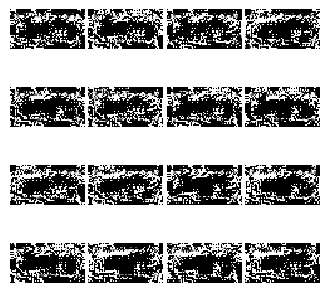
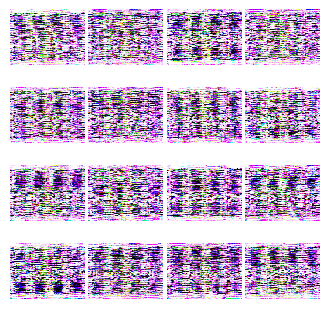
first commit

diff --git a/utils/datas.py b/utils/datas.py
@@ -7,7 +7,7 @@ import matplotlib as mpl
 mpl.use('Agg')
 import matplotlib.pyplot as plt
 import matplotlib.gridspec as gridspec
-import cv2 as cv
+#import cv2 as cv
 from tensorflow.examples.tutorials.mnist import input_data
 
 prefix = './Datas/'
@@ -111,25 +111,32 @@ class celebA():
 
 class mnist():
 	def __init__(self, flag='conv', is_tanh = False):
-		self.datapath = prefix + 'bus_data/'
+		self.datapath = prefix + 'data_pic/'
 		self.X_dim = 784 # for mlp
 		self.z_dim = 100
 		self.y_dim = 10
-		self.sizex = 32 # for conv
-		self.sizey = 60 # for conv
-		self.channel = 1 # for conv
+		self.sizex = 96 # for conv
+		self.sizey = 128 # for conv
+		self.channel = 3 # for conv
 		#self.data = input_data.read_data_sets(datapath, one_hot=True)
 		self.flag = flag
 		self.is_tanh = is_tanh
-		self.Train_nums = 17
-		self.train_data = np.zeros([self.Train_nums,self.sizex,  self.sizey]) 
+		self.Train_nums = 50
+		self.train_data = np.zeros([self.Train_nums,self.sizex,  self.sizey,self.channel]) 
 		img_list = os.listdir(self.datapath)
 		count = 0
 		for i in range(self.Train_nums):
 			img_path = os.path.join(self.datapath, img_list[i])  # 图片文件
-			img = cv.imread(img_path)
-			gray = cv.cvtColor(img,cv.COLOR_RGB2GRAY)
-			self.train_data[count, :, :]  = cv.resize(gray,(self.sizey,  self.sizex))
+			#CV图片处理方式
+
+			#img = cv.imread(img_path)
+			#self.train_data[count, :, :,:]  = cv.resize(img,(self.sizey,  self.sizex))
+			
+			#Python图片处理
+
+			img = Image.open(img_path)
+			self.train_data[count, :, :,:] = img.resize((self.sizey,self.sizex))
+			#gray = cv.cvtColor(img,cv.COLOR_RGB2GRAY)			
 			print(count)
 			count+=1
 
@@ -146,7 +153,7 @@ class mnist():
 	def next_batch(self,data_path, batch_size):
 	#def next_batch(self,data_path, lable_path, batch_size):
 		train_temp = np.random.randint(low=0, high=self.Train_nums, size=batch_size) # 生成元素的值在[low,high)区间，随机选取
-		train_data_batch = np.zeros([batch_size,self.sizex,  self.sizey]) # 其中[img_row,  img_col, 3]是原数据的shape，相应变化
+		train_data_batch = np.zeros([batch_size,self.sizex,  self.sizey,self.channel]) # 其中[img_row,  img_col, 3]是原数据的shape，相应变化
 		#train_label_batch = np.zeros([batch_size, self.size, self.size]) #
 		count = 0 # 后面就是读入图像，并打包成四维的batch
 		#print(data_path)
@@ -155,7 +162,7 @@ class mnist():
 
 		# 图片提前存储到内存中
 		for i in train_temp:
-			train_data_batch[count, :, :]  = self.train_data[i]
+			train_data_batch[count, :, :,:]  = self.train_data[i]
 			count+=1
 		return train_data_batch#, train_label_batch
 
@@ -182,7 +189,7 @@ class mnist():
 			ax.set_xticklabels([])
 			ax.set_yticklabels([])
 			ax.set_aspect('equal')
-			plt.imshow(sample.reshape(self.sizex,self.sizey), cmap='Greys_r')
+			plt.imshow(sample.reshape(self.sizex,self.sizey,self.channel), cmap='Greys_r')
 		return fig	
 
 if __name__ == '__main__':

diff --git a/utils/nets.py b/utils/nets.py
@@ -224,16 +224,16 @@ class G_conv_mnist(object):
 	def __call__(self, z):
 		with tf.variable_scope(self.name) as scope:
 			#step 1 全连接层，把z白噪声变为8*15*128图
-			g = tcl.fully_connected(z, 8*15*128, activation_fn = tf.nn.relu, normalizer_fn=tcl.batch_norm,
+			g = tcl.fully_connected(z, 32*24*64, activation_fn = tf.nn.relu, normalizer_fn=tcl.batch_norm,
 									weights_initializer=tf.random_normal_initializer(0, 0.02))
-			g = tf.reshape(g, (-1, 8, 15, 128)) 
+			g = tf.reshape(g, (-1, 32, 24, 64)) 
 			#step 2 反卷积/上采样 到16*30*64图    4代表卷积核大小
-			g = tcl.conv2d_transpose(g, 64, 4,stride=2, 
+			g = tcl.conv2d_transpose(g, 32, 4,stride=2, 
 									activation_fn=tf.nn.relu, normalizer_fn=tcl.batch_norm, padding='SAME', weights_initializer=tf.random_normal_initializer(0, 0.02))
 			#step 3 反卷积/上采样 到32*60*1的图，此时和真实手写体的数据是一样的图
-			g = tcl.conv2d_transpose(g, 1, 4, stride=2, 
+			g = tcl.conv2d_transpose(g, 3, 4, stride=2, 
 										activation_fn=tf.nn.sigmoid, padding='SAME', weights_initializer=tf.random_normal_initializer(0, 0.02))
-			print(g.shape)
+			#print(g.shape)
 			return g
 	@property
 	def vars(self):

diff --git a/wgan_conv.py b/wgan_conv.py
@@ -81,7 +81,7 @@ class WGAN():
 						feed_dict={self.z: sample_z(batch_size, self.z_dim)})
 				print('Iter: {}; D loss: {:.4}; G_loss: {:.4}'.format(epoch, D_loss_curr, G_loss_curr))
 
-				if epoch % 1000 == 0:
+				if epoch % 500 == 0:
 					samples = self.sess.run(self.G_sample, feed_dict={self.z: sample_z(16, self.z_dim)})
 					print(samples.shape)
 					fig = self.data.data2fig(samples)
